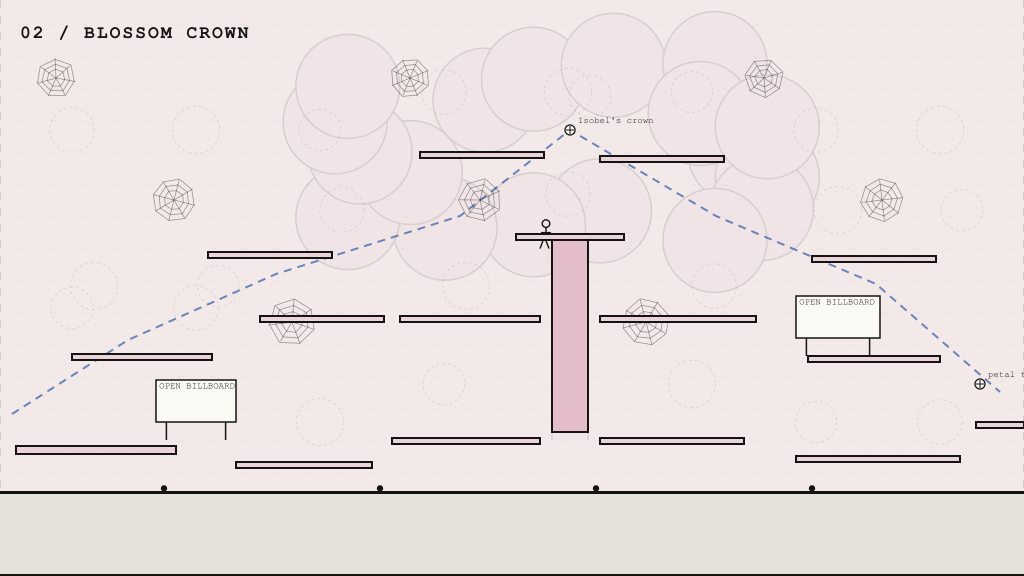
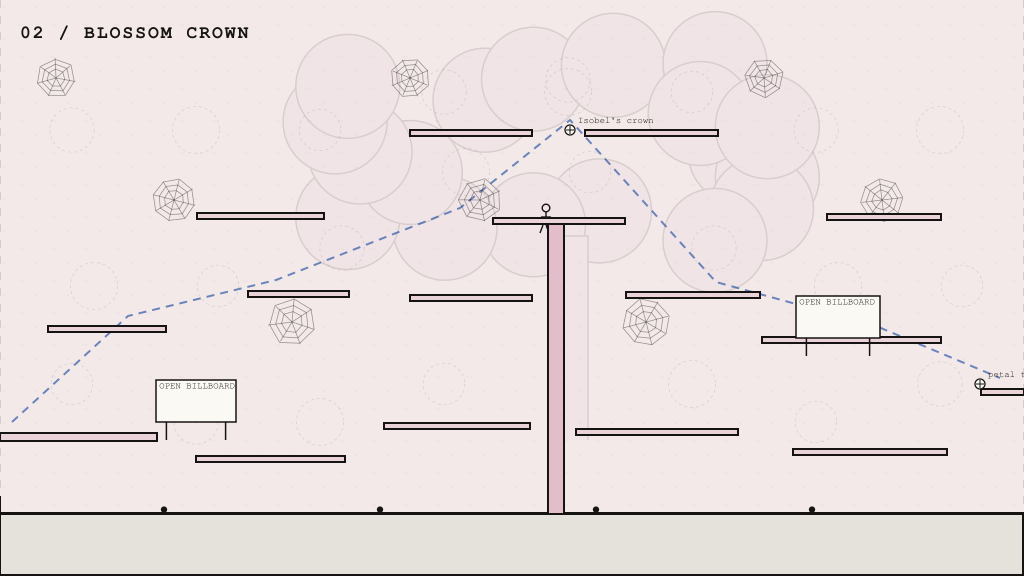
Align overworld physics to pixel art

diff --git a/shared/maps/overworld.js b/shared/maps/overworld.js
@@ -1,8 +1,9 @@
 const WORLD_WIDTH = 15360;
 const WORLD_HEIGHT = 2880;
 const REGION_WIDTH = WORLD_WIDTH / 3;
-const GROUND_Y = 2464;
+const GROUND_Y = 2570;
 const EDITOR_SCALE = 8;
+const ART_SCALE = 5;
 
 const regions = [
   { id: 'snowfield', type: 'snow', label: 'Snowfield', x: 0, w: REGION_WIDTH },
@@ -10,62 +11,67 @@ const regions = [
   { id: 'live-web', type: 'website', label: 'Live Web', x: REGION_WIDTH * 2, w: REGION_WIDTH }
 ];
 
-const platform = (x, y, w, kind, feature, h = 32) => ({ x, y, w, h, kind, feature });
+// Runtime plates are 1024x576 and each region is 5120x2880. Keeping the
+// collision ledges in plate pixels makes the art/physics registration explicit.
+const platformPx = (x, y, w, kind, feature, h = 32) => ({
+  x: x * ART_SCALE, y: y * ART_SCALE, w: w * ART_SCALE, h, kind, feature,
+  artPixel: { x, y, w }
+});
 
 const sectionSpecs = {
   snowfield: [
-    platform(120, 2220, 760, 'snow', 'arrival shelf', 40),
-    platform(1100, 2100, 620, 'snow', 'waterfall lip'),
-    platform(1940, 2260, 520, 'snow', 'crystal hollow'),
-    platform(2700, 2040, 680, 'snow', 'pine bridge'),
-    platform(3620, 2180, 600, 'snow', 'footstep shelf'),
-    platform(4480, 1990, 520, 'snow', 'petal approach'),
-    platform(520, 1740, 520, 'snow', 'west overlook'),
-    platform(1320, 1530, 560, 'snow', 'radio trail'),
-    platform(2170, 1690, 480, 'snow', 'frozen relay'),
-    platform(2960, 1440, 620, 'snow', 'high white pass'),
-    platform(3900, 1590, 520, 'snow', 'pine lookout'),
-    platform(4580, 1330, 420, 'snow', 'east ridge'),
-    platform(2260, 1120, 500, 'rock', 'mountain step'),
-    platform(3180, 920, 720, 'rock', 'mountain signal'),
-    platform(4320, 760, 520, 'snow', 'summit shelf')
+    platformPx(30, 449, 140, 'snow', 'arrival shelf', 40),
+    platformPx(218, 420, 122, 'snow', 'waterfall lip'),
+    platformPx(381, 452, 105, 'snow', 'crystal hollow'),
+    platformPx(550, 405, 120, 'snow', 'pine bridge'),
+    platformPx(727, 439, 122, 'snow', 'footstep shelf'),
+    platformPx(900, 391, 104, 'snow', 'petal approach'),
+    platformPx(104, 342, 104, 'snow', 'west overlook'),
+    platformPx(258, 306, 125, 'snow', 'radio trail'),
+    platformPx(434, 335, 101, 'snow', 'frozen relay'),
+    platformPx(586, 286, 124, 'snow', 'high white pass'),
+    platformPx(779, 318, 106, 'snow', 'pine lookout'),
+    platformPx(912, 259, 92, 'snow', 'east ridge'),
+    platformPx(445, 219, 114, 'rock', 'mountain step'),
+    platformPx(630, 180, 142, 'rock', 'mountain signal'),
+    platformPx(868, 150, 106, 'snow', 'summit shelf')
   ],
   'blossom-crown': [
-    platform(80, 2230, 800, 'branch', 'west roots', 40),
-    platform(1180, 2310, 680, 'branch', 'petal basin'),
-    platform(1960, 2190, 740, 'branch', 'root promenade'),
-    platform(3000, 2190, 720, 'branch', 'east roots'),
-    platform(3980, 2280, 820, 'branch', 'lantern roots'),
-    platform(4880, 2110, 240, 'branch', 'pageward root'),
-    platform(360, 1770, 700, 'branch', 'west branch'),
-    platform(1300, 1580, 620, 'branch', 'petal limb'),
-    platform(2000, 1580, 700, 'branch', 'house approach'),
-    platform(3000, 1580, 780, 'branch', 'song branch'),
-    platform(4040, 1780, 660, 'branch', 'east bough'),
-    platform(1040, 1260, 620, 'branch', 'lantern limb'),
-    platform(4060, 1280, 620, 'branch', 'canopy post'),
-    platform(2580, 1168, 540, 'branch', 'Isobel house limb'),
-    platform(2760, 1200, 180, 'trunk', 'central cherry trunk', 960),
-    platform(2100, 760, 620, 'branch', 'west crown'),
-    platform(3000, 780, 620, 'branch', 'east crown')
+    platformPx(0, 433, 157, 'branch', 'west roots', 40),
+    platformPx(196, 456, 149, 'branch', 'petal basin'),
+    platformPx(384, 423, 146, 'branch', 'root promenade'),
+    platformPx(576, 429, 162, 'branch', 'east roots'),
+    platformPx(793, 449, 154, 'branch', 'lantern roots'),
+    platformPx(981, 389, 43, 'branch', 'pageward root'),
+    platformPx(48, 326, 118, 'branch', 'west branch'),
+    platformPx(248, 291, 101, 'branch', 'petal limb'),
+    platformPx(410, 295, 122, 'branch', 'house approach'),
+    platformPx(626, 292, 134, 'branch', 'song branch'),
+    platformPx(762, 337, 179, 'branch', 'east bough'),
+    platformPx(197, 213, 127, 'branch', 'lantern limb'),
+    platformPx(827, 214, 114, 'branch', 'canopy post'),
+    platformPx(493, 218, 132, 'branch', 'Isobel house limb'),
+    platformPx(548, 224.4, 16, 'trunk', 'central cherry trunk', 1448),
+    platformPx(410, 130, 122, 'branch', 'west crown'),
+    platformPx(585, 130, 133, 'branch', 'east crown')
   ],
   'live-web': [
-    platform(80, 2240, 620, 'page', 'site threshold', 40),
-    platform(1000, 2110, 700, 'card', 'hello card'),
-    platform(1980, 2290, 560, 'page', 'archive ledge'),
-    platform(2880, 2180, 720, 'card', 'microblog floor'),
-    platform(3920, 2280, 520, 'page', 'blue-link landing'),
-    platform(4680, 2110, 360, 'page', 'paper edge'),
-    platform(320, 1740, 720, 'page', 'navigation rail'),
-    platform(1340, 1570, 680, 'card', 'message card'),
-    platform(2340, 1820, 620, 'card', 'ravine note'),
-    platform(3280, 1640, 760, 'card', 'ravine reply'),
-    platform(4340, 1820, 620, 'page', 'contact shelf'),
-    platform(120, 1120, 620, 'page', 'hello balcony'),
-    platform(1060, 930, 680, 'page', 'player shelf'),
-    platform(2080, 1180, 620, 'card', 'notes landing'),
-    platform(3060, 980, 720, 'page', 'audio shelf'),
-    platform(4120, 1200, 720, 'card', 'speech bubble')
+    platformPx(8, 443, 119, 'page', 'site threshold', 40),
+    platformPx(151, 395, 185, 'card', 'hello card'),
+    platformPx(381, 450, 95, 'page', 'archive ledge'),
+    platformPx(558, 426, 150, 'card', 'microblog floor'),
+    platformPx(736, 448, 127, 'page', 'blue-link landing'),
+    platformPx(867, 468, 148, 'page', 'paper edge'),
+    platformPx(62, 332, 121, 'page', 'navigation rail'),
+    platformPx(267, 299, 142, 'card', 'message card'),
+    platformPx(466, 352, 104, 'card', 'ravine note'),
+    platformPx(627, 311, 165, 'card', 'ravine reply'),
+    platformPx(840, 344, 174, 'page', 'contact shelf'),
+    platformPx(8, 188, 168, 'page', 'hello balcony'),
+    platformPx(223, 168, 122, 'page', 'player shelf'),
+    platformPx(416, 219, 115, 'card', 'notes landing'),
+    platformPx(618, 180, 97, 'page', 'audio shelf'),
+    platformPx(794, 217, 122, 'card', 'speech bubble')
   ]
 };
 
@@ -75,16 +81,17 @@ const sectionSolids = regions.flatMap((region) => sectionSpecs[region.id].map((s
   x: region.x + spec.x,
   region: region.id
 })));
-const floor = {
-  id: 'world-floor', x: 0, y: GROUND_Y, w: WORLD_WIDTH, h: WORLD_HEIGHT - GROUND_Y,
-  kind: 'floor', feature: 'continuous paper ground', region: 'all'
-};
-const solids = [floor, ...sectionSolids];
+const floors = [
+  { id: 'snowfield-floor', x: 0, y: 2490, w: REGION_WIDTH, h: 390, kind: 'floor', feature: 'snowfield ground', region: 'snowfield', artPixel: { x: 0, y: 498, w: 1024 } },
+  { id: 'blossom-floor', x: REGION_WIDTH, y: 2570, w: REGION_WIDTH, h: 310, kind: 'floor', feature: 'blossom ground', region: 'blossom-crown', artPixel: { x: 0, y: 514, w: 1024 } },
+  { id: 'live-web-catch', x: REGION_WIDTH * 2, y: 2760, w: REGION_WIDTH, h: 120, kind: 'floor', feature: 'hidden page catch', region: 'live-web', hidden: true }
+];
+const solids = [...floors, ...sectionSolids];
 
 const navigationPaths = [
-  [[300, 2090], [780, 1690], [1550, 1480], [2380, 1630], [3290, 1360], [3540, 850], [4680, 1260], [5060, 1840]],
-  [[5180, 2070], [5760, 1700], [6500, 1370], [7420, 1080], [7970, 650], [8700, 1080], [9500, 1420], [10120, 1960]],
-  [[10300, 2100], [10920, 1680], [11720, 1380], [12520, 1740], [13040, 1460], [13920, 1440], [14700, 1760], [15220, 2020]]
+  [[300, 2180], [780, 1660], [1550, 1450], [2380, 1620], [3290, 1380], [3540, 850], [4680, 1210], [5060, 1850]],
+  [[5180, 2110], [5760, 1580], [6500, 1400], [7420, 1040], [7970, 600], [8700, 1410], [9500, 1630], [10120, 1890]],
+  [[10300, 2160], [10920, 1610], [11720, 1440], [12520, 1710], [13040, 1500], [13920, 1670], [14700, 1030], [15220, 2290]]
 ];
 
 function pathAnchors(points) {
@@ -151,11 +158,16 @@ const staticWebs = regions.flatMap((region, regionIndex) => Array.from({ length:
   phase: regionIndex * 0.18 + index * 0.07
 })));
 
-const npcSpiders = regions.flatMap((region, regionIndex) => [0, 1, 2, 3].map((index) => ({
+const residentSpots = {
+  snowfield: [[820, 2468], [1900, 2468], [2980, 2468], [4060, 2468]],
+  'blossom-crown': [[820, 2548], [1900, 2548], [2980, 2548], [4060, 2548]],
+  'live-web': [[1000, 1953], [2100, 2228], [3050, 2108], [4000, 2218]]
+};
+const npcSpiders = regions.flatMap((region, regionIndex) => residentSpots[region.id].map(([x, y], index) => ({
   id: `${region.id}-resident-${index + 1}`,
   name: ['old spinner', 'snow thread', 'petal keeper', 'page crawler'][(regionIndex + index) % 4],
-  x: region.x + 820 + index * 1080,
-  y: GROUND_Y - 22,
+  x: region.x + x,
+  y,
   range: 70 + index * 14,
   speed: 0.0003 + index * 0.000022,
   palette: ['frost', 'amber', 'berry', 'autumn'][(regionIndex + index) % 4],
@@ -163,10 +175,10 @@ const npcSpiders = regions.flatMap((region, regionIndex) => [0, 1, 2, 3].map((in
 })));
 
 const humanoids = [
-  { id: 'snow-listener', name: 'The Listener / weather', frame: 1, x: 3490, y: 920, scale: 0.2 },
-  { id: 'isobel', name: 'Isobel / songs', frame: 0, x: 7850, y: 1168, scale: 0.23 },
-  { id: 'signal-kid', name: 'Signal Kid / maps', frame: 2, x: 11920, y: 1570, scale: 0.2 },
-  { id: 'cat-courier', name: 'Cat Courier / notes', frame: 3, x: 14000, y: 1640, scale: 0.2 }
+  { id: 'snow-listener', name: 'The Listener / weather', frame: 1, x: 3490, y: 900, scale: 0.2 },
+  { id: 'isobel', name: 'Isobel / songs', frame: 0, x: 7850, y: 1090, scale: 0.23 },
+  { id: 'signal-kid', name: 'Signal Kid / maps', frame: 2, x: 11920, y: 1495, scale: 0.2 },
+  { id: 'cat-courier', name: 'Cat Courier / notes', frame: 3, x: 14000, y: 1555, scale: 0.2 }
 ];
 
 const billboards = [
@@ -180,12 +192,12 @@ const billboards = [
 ];
 
 const waypoints = [
-  { id: 'snowfield', label: '01 / SNOWFIELD', x: 320, y: 2110 },
+  { id: 'snowfield', label: '01 / SNOWFIELD', x: 320, y: 2180 },
   { id: 'blossom-crown', label: '02 / BLOSSOM CROWN', x: 5340, y: 2110 },
-  { id: 'isobels-tree', label: "03 / ISOBEL'S TREE", x: 8090, y: 1070 },
-  { id: 'live-web', label: '04 / LIVE WEB', x: 10420, y: 2110 },
-  { id: 'microblog-ravine', label: '05 / MICROBLOG RAVINE', x: 13120, y: 1550 },
-  { id: 'paper-edge', label: '06 / PAPER EDGE', x: 15020, y: 2020 }
+  { id: 'isobels-tree', label: "03 / ISOBEL'S TREE", x: 8090, y: 1040 },
+  { id: 'live-web', label: '04 / LIVE WEB', x: 10420, y: 2160 },
+  { id: 'microblog-ravine', label: '05 / MICROBLOG RAVINE', x: 13120, y: 1500 },
+  { id: 'paper-edge', label: '06 / PAPER EDGE', x: 15020, y: 2290 }
 ];
 
 export default {
@@ -196,6 +208,7 @@ export default {
   width: WORLD_WIDTH,
   height: WORLD_HEIGHT,
   groundY: GROUND_Y,
+  artRegistration: { nativeWidth: 1024, nativeHeight: 576, worldScale: ART_SCALE },
   editorGrid: {
     texture: 'overworld-builder-layer',
     nativeWidth: WORLD_WIDTH / EDITOR_SCALE,

diff --git a/client/src/world/PaperWorldView.js b/client/src/world/PaperWorldView.js
@@ -132,25 +132,29 @@ export default class PaperWorldView {
   }
 
   addSolid(solid) {
-    const followsArt = !!this.map.artPlate;
+    const followsArt = !!(this.map.artPlate || this.map.environmentPlates?.length);
     const cx = solid.x + solid.w / 2;
     const cy = solid.y + solid.h / 2;
-    const displayHeight = solid.kind === 'floor' && !followsArt ? Math.min(solid.h, 96) : solid.h;
-    const displayY = solid.y + displayHeight / 2;
     const body = this.scene.matter.add.rectangle(cx, cy, solid.w, solid.h, {
       isStatic: true,
       label: 'solid',
       friction: 0.6
     });
+    if (solid.hidden) {
+      this.solidItems.set(solid.editorId || solid, { body, display: null });
+      return;
+    }
+    const displayHeight = solid.kind === 'floor' && !followsArt ? Math.min(solid.h, 96) : solid.h;
+    const displayY = solid.y + displayHeight / 2;
     const display = this.scene.add.rectangle(
       cx,
       displayY,
       solid.w,
       displayHeight,
       KIND_FILL[solid.kind] || WORLD_COLOR.linkWash,
-      solid.editorBase && followsArt ? 0.04 : solid.kind === 'floor' ? 0.92 : 0.82
+      solid.editorBase && followsArt ? 0.025 : solid.kind === 'floor' ? 0.92 : 0.82
     )
-      .setStrokeStyle(followsArt ? 1 : 3, WORLD_COLOR.ink, solid.editorBase && followsArt ? 0.24 : 0.9)
+      .setStrokeStyle(followsArt ? 1 : 3, WORLD_COLOR.ink, solid.editorBase && followsArt ? 0.14 : 0.9)
       .setDepth(solid.editorBase ? -1 : 0);
     this.solidItems.set(solid.editorId || solid, { body, display });
     if (!followsArt) this.hatchEdge(this.hatch, solid);
@@ -159,7 +163,7 @@ export default class PaperWorldView {
   clearSolids() {
     this.solidItems.forEach(({ body, display }) => {
       this.scene.matter.world.remove(body);
-      display.destroy();
+      display?.destroy();
     });
     this.solidItems.clear();
     this.hatch?.clear();

diff --git a/client/src/ui/MiniMap.js b/client/src/ui/MiniMap.js
@@ -71,6 +71,7 @@ export default class MiniMap {
     ctx.strokeStyle = colors.muted;
     ctx.lineWidth = 1;
     this.map.solids.forEach((solid) => {
+      if (solid.hidden) return;
       ctx.fillRect(solid.x * sx, solid.y * sy, Math.max(1, solid.w * sx), Math.max(1, solid.h * sy));
       ctx.strokeRect(solid.x * sx, solid.y * sy, Math.max(1, solid.w * sx), Math.max(1, solid.h * sy));
     });
